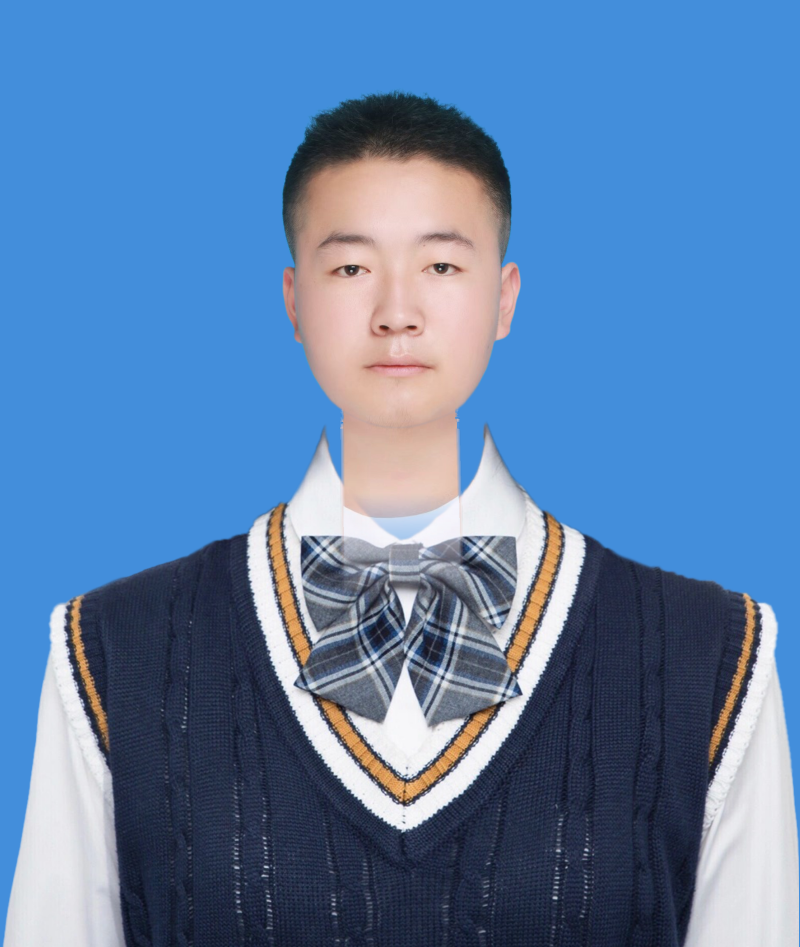
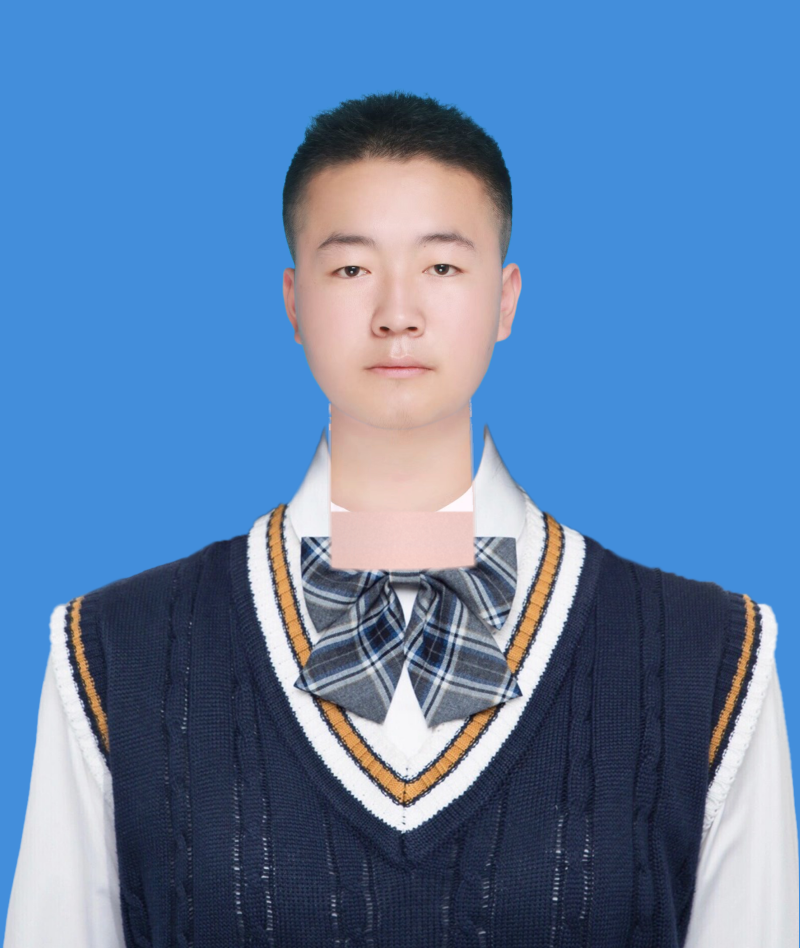
neck: \u52a0 for_clothes_compositing \u6a21\u5f0f\uff0c\u4e00\u6b21\u4fee\u590d\u95ee\u9898 1+3+4
\u95ee\u9898\u516c\u5171\u6839\u6e90\uff1aadd_neckv1 \u539f\u4e3a\u201c\u5934\u50cf\u900f\u660e\u80cc\u666f\u201d\u573a\u666f\u8bbe\u8ba1\uff0c\u90a3\u4e9b\u8bbe\u8ba1\u5728
\u201c\u8131\u5b50\u88ab\u8863\u9886\u906e\u4f4f\u201d\u573a\u666f\u4e0b\u53cd\u800c\u6709\u5bb3\uff1a
- \u9876\u5bbd\u6536\u7f29 (top_inset=0.78) \u2192 V \u9886\u5185\u4fa7\u770b\u5230\u84dd\u5e95
- \u8272\u5f69\u5f31\u9002\u5e94 (transplant strength=0.30) \u2192 \u8131\u5b50\u8138\u8272\u5dee
- \u4e0b\u7aef fade-out (fade_start=0.50) \u2192 V \u9886\u4f4d\u7f6e\u534a\u900f\u660e
- polygon \u8fc7\u957f (depth_frac=1.4) \u2192 \u900f\u51fa\u539f\u56fe\u8863\u9886\u767d\u8272

\u65b0\u589e add_fake_neck_v1 \u53c2\u6570 for_clothes_compositing: bool = False\uff0c
\u542f\u7528\u65f6 override 5 \u9879\u9ed8\u8ba4\uff1a
  1. neck_top_inset = max(neck_top_inset, 0.95)
     \u8131\u5b50\u9876\u5bbd \u2248 \u4e0b\u988c\u5bbd\uff0c\u586b\u6ee1 V \u9886\u5f00\u53e3\u4e0d\u900f\u80cc\u666f
  2. neck_depth_frac = 1.1
     polygon \u9ad8\u5ea6 \u2248 0.95 \u00d7 jaw_span\uff0c\u521a\u597d\u8986\u76d6\u5230 V \u9886\u4f4d\u7f6e\uff08chin+0.7\u00d7jaw_span\uff09
     \u53ca\u5176\u4e0b\u65b9\u4e00\u5c0f\u6bb5 buffer\uff1b\u4e0d\u4f1a\u900f\u51fa\u539f\u56fe T \u6064\u8863\u9886\u767d\u8272
  3. disable_fade_out = True
     polygon mask \u5185\u4fdd\u6301\u6ee1 alpha\uff0c\u907f\u514d V \u9886\u4f4d\u7f6e\u534a\u900f\u660e\u900f\u51fa\u84dd\u5e95
  4. transplant_tone_match_strength = 0.60
[…]

diff --git a/neck/add_neckv1.py b/neck/add_neckv1.py
@@ -1360,9 +1360,18 @@ def realism_pipeline(
     quilt_method: str = "tile",
     source_neck_pixels: Optional[np.ndarray] = None,
     source_warped_bgra: Optional[np.ndarray] = None,
+    disable_fade_out: bool = False,
+    transplant_tone_match_strength: float = TRANSPLANT_TONE_MATCH_STRENGTH,
 ) -> Tuple[np.ndarray, V1DebugInfo]:
     """
     Phase A 之"真实感主流程"：在 procedural 层之上跑 B/C/D/E。
+
+    ``disable_fade_out=True``: 跳过底端 vertical fade-out，脖子在 polygon mask 内
+    保持满 alpha。用于"脖子被衣领遮住"场景（add_clothes 调用），这种场景下
+    fade-out 会让 V 领位置脖子半透明，蓝底背景透出来。
+    ``transplant_tone_match_strength``: transplant 模式下 Reinhard 颜色对齐强度，
+    默认 0.30 (TRANSPLANT_TONE_MATCH_STRENGTH)；用于衣领合成场景时建议 0.6 以上，
+    让脖子色更主动适应 head 脸的光照。
     """
     h, w = bgra.shape[:2]
     mask_bool = polygon_mask_u8 >= 1
@@ -1452,11 +1461,26 @@ def realism_pipeline(
             iterations=1,
         )
         em = eroded_mask > 0
-        # 中央用原图，mask 边缘 1px 平滑过渡到 procedural detail（避免硬接缝）
+        # 限制 transplant 只覆盖 polygon 上 70% 区域（chin 下方的脖子皮肤区），
+        # 下 30% 不做 transplant 替换——避免把原图的衣领/T恤等非脖子内容拷过来。
+        # 这样配合 disable_fade_out=True（衣领合成场景），下半段保留 procedural 合成
+        # 肤色，能被衣服 V 领开口自然遮住而不透出白色衣领。
+        y_min_p = float(np.min(poly[:, 1]))
+        y_max_p = float(np.max(poly[:, 1]))
+        poly_h_p = max(y_max_p - y_min_p, 1.0)
+        transplant_y_max = y_min_p + poly_h_p * 0.70
+        yy_grid = np.arange(h, dtype=np.float64)[:, None]
+        transplant_y_ok = yy_grid <= transplant_y_max  # (h, 1)
+        # 边缘 ~10px 软过渡：transplant_y_max 上下 5px 内 alpha 线性渐变
+        soft_zone = np.clip((transplant_y_max - yy_grid) / 5.0, 0.0, 1.0)  # (h, 1)
+        # 中央用原图（带 y 软过渡），mask 边缘 1px 平滑过渡到 procedural detail
         blended_bgr_arr = blended_bgr.astype(np.float32)
         warped_bgr = source_warped_bgra[:, :, :3].astype(np.float32)
-        blended_bgr = np.where(em[..., None], warped_bgr, blended_bgr_arr)
-        blended_bgr = np.clip(blended_bgr, 0, 255).astype(np.uint8)
+        soft_3 = soft_zone[..., None].astype(np.float32)  # (h,1,1) → broadcast
+        em_3 = em[..., None].astype(np.float32)  # (h,w,1)
+        blend_w = em_3 * soft_3
+        blended_bgr_f = warped_bgr * blend_w + blended_bgr_arr * (1.0 - blend_w)
+        blended_bgr = np.clip(blended_bgr_f, 0, 255).astype(np.uint8)
 
     blended_bgra = np.dstack([blended_bgr, polygon_mask_u8])
 
@@ -1518,7 +1542,7 @@ def realism_pipeline(
             pitie_mask = polygon_mask_u8 >= 1
             # transplant 模式用更低强度（仅适应光照），其他路径用原 strength
             effective_strength = (
-                TRANSPLANT_TONE_MATCH_STRENGTH if transplant_active else pitie_strength
+                float(transplant_tone_match_strength) if transplant_active else pitie_strength
             )
             _apply_L_meanshift_ab_cdf_inplace(
                 blended_bgra, pitie_mask, ref_pixels,
@@ -1549,18 +1573,21 @@ def realism_pipeline(
     # ---------- 底端 vertical fade-out（衣领过渡）-----------------------------------
     # imagev2 中脖子在 chin+50% jaw_span 处就过渡到衣领（白底图里直接是白）。
     # 让多边形下 50% 高度的 alpha 渐隐到 0，模拟「脖子下端→衣领→背景」的自然过渡。
-    y_min_poly = float(np.min(poly[:, 1]))
-    y_max_poly = float(np.max(poly[:, 1]))
-    poly_height = max(y_max_poly - y_min_poly, 1.0)
-    yy = np.arange(h, dtype=np.float64)[:, None]
-    yn_poly = np.clip((yy - y_min_poly) / poly_height, 0.0, 1.0)
-    fade_start = 0.50  # 0.50 → 1.0 段做 fade（之前 0.65，现在更早过渡）
-    fade = np.where(
-        yn_poly < fade_start,
-        1.0,
-        np.clip(1.0 - (yn_poly - fade_start) / (1.0 - fade_start), 0.0, 1.0) ** 1.2,
-    )
-    final_alpha = final_alpha * fade
+    # disable_fade_out=True（衣领合成场景）时跳过：脖子在 polygon mask 内保持满 alpha，
+    # 避免 V 领位置脖子半透明导致蓝底渗出。
+    if not disable_fade_out:
+        y_min_poly = float(np.min(poly[:, 1]))
+        y_max_poly = float(np.max(poly[:, 1]))
+        poly_height = max(y_max_poly - y_min_poly, 1.0)
+        yy = np.arange(h, dtype=np.float64)[:, None]
+        yn_poly = np.clip((yy - y_min_poly) / poly_height, 0.0, 1.0)
+        fade_start = 0.50
+        fade = np.where(
+            yn_poly < fade_start,
+            1.0,
+            np.clip(1.0 - (yn_poly - fade_start) / (1.0 - fade_start), 0.0, 1.0) ** 1.2,
+        )
+        final_alpha = final_alpha * fade
 
     blended_bgra[:, :, 3] = np.clip(np.round(final_alpha * 255.0), 0, 255).astype(np.uint8)
 
@@ -1604,6 +1631,7 @@ def add_fake_neck_v1(
     cylinder_strength: float = 0.30,          # flat_shading=False 时圆柱明暗强度系数
     neck_depth_frac: float = 1.4,             # neck_depth = jaw_span * neck_depth_frac（1.85→1.4 更短）
     source_image_path: Optional[str] = None,  # 原图（带真实脖子）路径；非空且检测到脖子 → 严格按原图脖子色
+    for_clothes_compositing: bool = False,    # ★ 衣领合成场景模式开关
     laplacian_levels: int = LAPLACIAN_LEVELS_DEFAULT,
     rng_seed: int = QUILT_RNG_SEED,
     face_mesh: Optional[object] = None,
@@ -1615,6 +1643,24 @@ def add_fake_neck_v1(
     """
     h, w = bgra.shape[:2]
     rgb = bgra_to_rgb(bgra)
+
+    # ★ 衣领合成场景：override 默认参数让脖子塞满 V 领、不渐隐、色调更主动适应 head 脸
+    disable_fade_out_effective = False
+    transplant_strength_effective = TRANSPLANT_TONE_MATCH_STRENGTH
+    if for_clothes_compositing:
+        # 1. 脖子顶宽几乎=下颌宽，避免 V 领开口看到蓝底渗出
+        neck_top_inset = max(neck_top_inset, 0.95)
+        # 2. 脖子长度：精确覆盖到 V 领位置（add_clothes 默认 V 领在 chin+0.7×jaw_span）
+        #    polygon 高度 = jaw_span × frac × slim ≈ frac × 0.87 × jaw_span
+        #    让 polygon 底端 ≈ chin + 0.95 × jaw_span（V 领下方 25%，被衣领遮住的过渡区）
+        #    → frac = 0.95 / 0.87 ≈ 1.1
+        neck_depth_frac = 1.1
+        # 3. 关闭底端 fade-out：在 polygon mask 内保持满 alpha
+        disable_fade_out_effective = True
+        # 4. transplant 时更主动适应 head 脸色（0.30 → 0.60），消除脸-脖子色差
+        transplant_strength_effective = 0.60
+        # 5. 关掉胡茬阴影（衣领遮住下端，胡茬阴影在 V 领内可能产生不自然暗带）
+        enable_stubble = False
 
     if face_mesh is not None:
         landmarks = _detect_first_face(face_mesh, rgb)
@@ -1703,6 +1749,8 @@ def add_fake_neck_v1(
         quilt_method=quilt_method,
         source_neck_pixels=source_neck_pixels,
         source_warped_bgra=source_warped,
+        disable_fade_out=disable_fade_out_effective,
+        transplant_tone_match_strength=transplant_strength_effective,
     )
     info = info._replace(pose=(yaw, pitch, roll))
 

diff --git a/neck/add_clothes.py b/neck/add_clothes.py
@@ -268,6 +268,7 @@ def add_clothes(
         head_with_neck, _skin_marked = add_fake_neck_v1(
             head_bgra_expanded,
             source_image_path=source_image_path,
+            for_clothes_compositing=True,  # ★ 衣领合成模式：脖子塞满 V 领、不 fade、色调更主动适应
         )
     except Exception as e:
         print(f"[错误] 添加脖子失败: {e}", file=sys.stderr)
